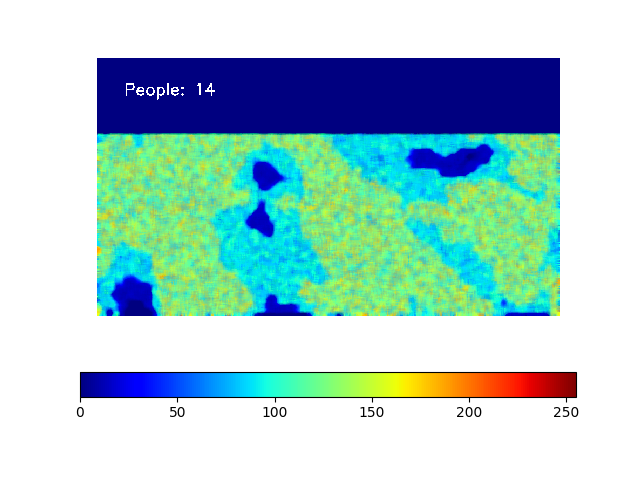
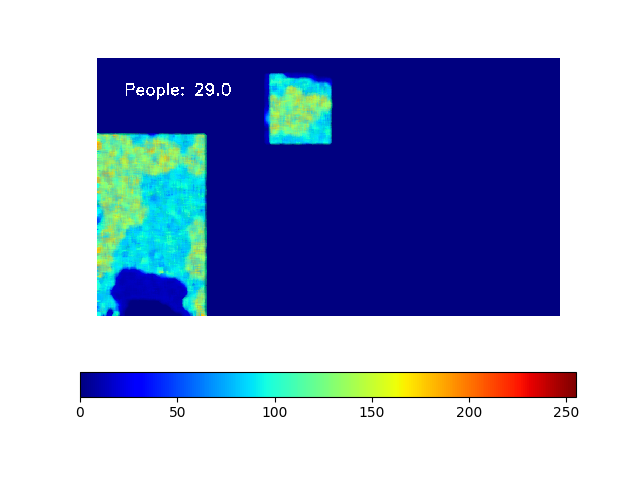
add multi area controller

Changed region(s): [[0.125, 0.125, 0.875, 0.6562], [0.3125, 0.1562, 0.3438, 0.2188]]

diff --git a/main.py b/main.py
@@ -4,13 +4,14 @@ import cv2
 import numpy as np
 
 from CSRNet import CSRNet
+from area_controller import AreaController
 from utils_imgproc import norm_by_imagenet
 from matplotlib import pyplot as plt
-import math
 
 desired_size_resize = (858, 480)
 desired_size = (480, 858)
-working_area = ((145, 0), (480, 858))
+working_areas = [((145, 0), (480, 200)), ((36, 317), (160, 430))]
+heat_maps = list()
 os.environ["CUDA_VISIBLE_DEVICES"] = "0"
 model = CSRNet(input_shape=(None, None, 3))
 model.load_weights('./weights/model.hdf5')
@@ -21,30 +22,27 @@ frame_height = int(cap.get(4))
 
 # Define the codec and create VideoWriter object
 fourcc = cv2.VideoWriter_fourcc(*'mp4v')
-out = cv2.VideoWriter('output.mp4',fourcc, 30.0, desired_size)
-acccumulate_out = cv2.VideoWriter('accumulate_output.mp4',fourcc, 30.0, desired_size)
+out = cv2.VideoWriter('output.mp4',fourcc, 30.0, desired_size_resize)
+acccumulate_out = cv2.VideoWriter('accumulate_output.mp4',fourcc, 30.0, desired_size_resize)
 frame2 = 0
-count = 0.0
+area_controller = AreaController(working_areas, desired_size)
 while(cap.isOpened()):
     ret, frame = cap.read()
     if ret:
         original_frame = cv2.resize(frame, desired_size_resize)
         frame = norm_by_imagenet(cv2.cvtColor(original_frame, cv2.COLOR_BGR2RGB).astype(np.float32))
         heat_map = model.predict(np.expand_dims(frame, 0))[0,:,:,0]
-
-        working_area_numpy = np.zeros(desired_size)
-        working_area_numpy[working_area[0][0]:working_area[1][0]][working_area[0][1]:working_area[1][1]] = 1
-        working_area_numpy = cv2.resize(working_area_numpy, (heat_map.shape[1], heat_map.shape[0]))
-        heat_map = heat_map * working_area_numpy
-
         number_of_people = np.sum(heat_map)
+        area_controller.run(heat_map)
+
+        total_working_area_numpy = area_controller.get_total_working_area_numpy()
+        heat_map = heat_map * total_working_area_numpy
         heat_map = heat_map / np.amax(heat_map) * 255
         heat_map = heat_map.astype(np.uint8)
         frame = cv2.applyColorMap(heat_map, cv2.COLORMAP_JET)
         frame = cv2.resize(frame, desired_size_resize)
-        info = "People: " + str(math.ceil(number_of_people))
+        info = "People: " + str(round(number_of_people))
 
-        count += 1
         frame2 += frame
         normalized_frame = cv2.applyColorMap(frame2*10, cv2.COLORMAP_JET)
         normalized_frame = cv2.medianBlur(normalized_frame, 11)
@@ -53,14 +51,7 @@ while(cap.isOpened()):
                     fontFace=cv2.FONT_HERSHEY_SIMPLEX,
                     fontScale=1, color=(255, 255, 255), thickness=2)
 
-
         visualized_frame = np.where(frame > (128, 0, 0), frame, original_frame)
-        # for i in range(frame.shape[0]):
-        #     for j in range(frame.shape[1]):
-        #         if frame[i][j][0] == 128 and frame[i][j][1] == 0 and frame[i][j][2] == 0:
-        #             visualized_frame[i][j][:] = original_frame[i][j][:]
-        #         else:
-        #             visualized_frame[i][j][:] = frame[i][j][:]
 
         cv2.imshow('frame1', normalized_frame)
 
@@ -74,13 +65,13 @@ while(cap.isOpened()):
         break
 
 normalized_frame = normalized_frame.astype(np.float32)
-# frame2 = frame2 / np.amax(frame2) * 255
 fig, ax = plt.subplots()
 plt.axis('off')
 im = ax.imshow(cv2.cvtColor(np.uint8(normalized_frame), cv2.COLOR_BGR2RGB), cmap='jet')
 fig.colorbar(im, orientation='horizontal')
 plt.savefig('output.png')
 
+area_controller.draw_people_count()
 # Release everything if job is finished
 cap.release()
 out.release()

diff --git a/area_controller.py b/area_controller.py
@@ -1,0 +1,37 @@
+import cv2
+from matplotlib import pyplot as plt
+import numpy as np
+
+
+class AreaController:
+    def __init__(self, working_areas, size):
+        self.working_areas = working_areas
+        self.size = size
+        self.number_of_people_vector = list()
+        self.total_working_area_numpy = np.zeros(size)
+        for i in range(len(working_areas)):
+            self.number_of_people_vector.append(list())
+
+    def add_area(self, area):
+        self.working_areas.append(area)
+        self.number_of_people_vector.append(list())
+
+    def run(self, heat_map):
+        self.heat_map_size = heat_map.shape
+        for i, working_area in enumerate(self.working_areas):
+            working_area_numpy = np.zeros(self.size)
+            working_area_numpy[working_area[0][0]:working_area[1][0], working_area[0][1]:working_area[1][1]] = 1
+            working_area_numpy = cv2.resize(working_area_numpy, (self.heat_map_size[1], self.heat_map_size[0]))
+            area_heat_map = heat_map * working_area_numpy
+            number_of_people = np.sum(area_heat_map)
+            self.number_of_people_vector[i].append(number_of_people)
+            self.total_working_area_numpy[working_area[0][0]:working_area[1][0], working_area[0][1]:working_area[1][1]] = 1
+
+    def get_total_working_area_numpy(self):
+        return cv2.resize(self.total_working_area_numpy, (self.heat_map_size[1], self.heat_map_size[0]))
+
+    def draw_people_count(self):
+        for i in range(len(self.number_of_people_vector)):
+            fig, ax = plt.subplots()
+            ax.plot(self.number_of_people_vector[i])
+            plt.savefig('output/output' + str(i) + '.png')
